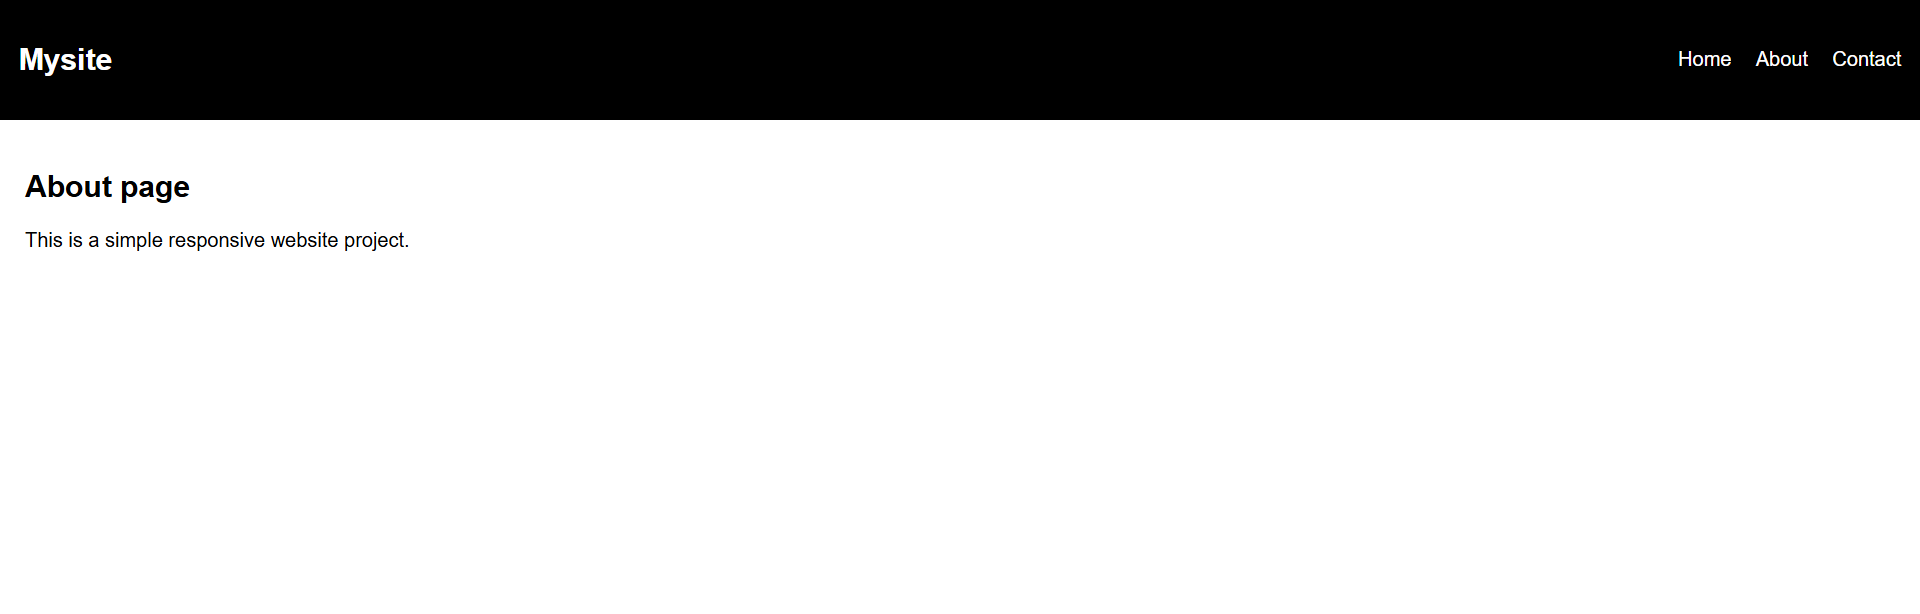
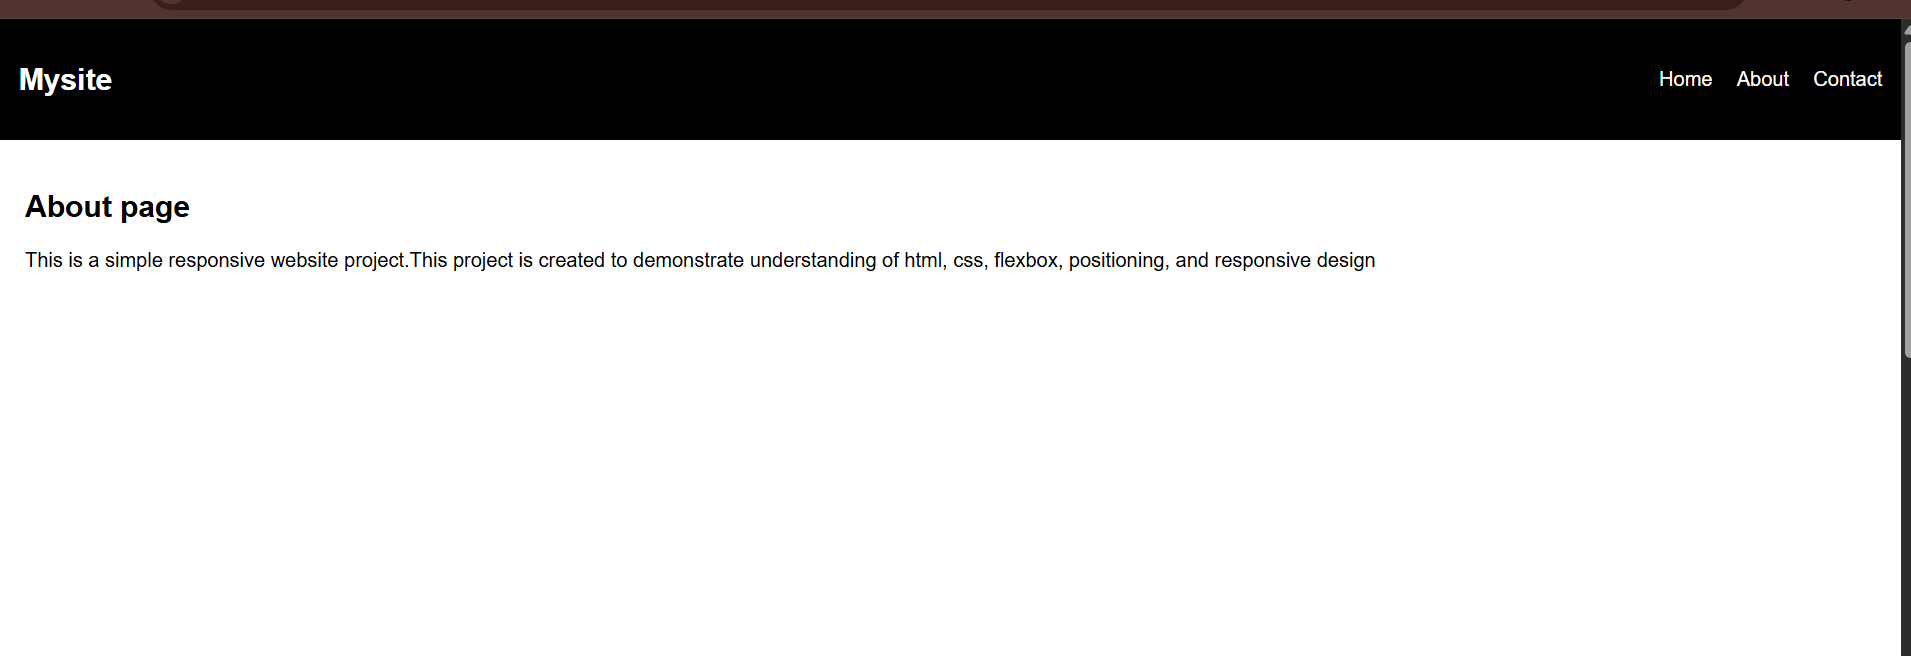
added file

diff --git a/mini project/home.html b/mini project/home.html
@@ -17,10 +17,31 @@
                 <a href="contact.html">Contact</a>
             </div>
         </div>
+
+        <div class="hero">
+            <h1>Welcome to my website</h1>
+            <p>Learning web development step by step.</p>
+        </div>
+
         <div class="container">
-            <div class="card">Welcome</div>
-            <div class="card">Explore</div>
-            <div class="card">Learn</div>
+            <div class="card">
+                <h3>HTML</h3>
+                <P>Structure of web page.</P>
+            </div>
+
+            <div class="card">
+                <h3>CSS</h3>
+                <p>Styling and layout design.</p>
+            </div>
+
+            <div class="card">
+                <h3>Responsive</h3>
+                <p>Works on all devices.</p>
+            </div>
+        </div>
+
+        <div class="footer">
+            <p>2026 Mysite | All Rights Reserved</p>
         </div>
     </body>
 </html>

diff --git a/mini project/style.css b/mini project/style.css
@@ -1,6 +1,7 @@
 body {
     margin:0;
     font-family: Arial, Helvetica, sans-serif;
+    height:2000px;
 }
 
 .navbar {
@@ -38,4 +39,34 @@ body {
 
 .form-container {
     padding:20px;
+}
+
+
+form{
+    display:flex;
+    flex-direction: column;
+    max-width: 300px;
+}
+
+input, textarea{
+    margin-bottom:10px;
+    padding:10px;
+}
+
+button{
+    padding:10px;
+    background: blue;
+    color: white;
+    border:none;
+}
+
+@media (max-width:768px) {
+    .navbar {
+        flex-direction: column;
+        align-items: center;
+    }
+
+    .container {
+        flex-direction: column;
+    }
 }

diff --git a/mini project/about.html b/mini project/about.html
@@ -20,7 +20,7 @@
 
         <div class="content">
             <h2>About page</h2>
-            <p>This is a simple responsive website project.</p>
+            <p>This  is a simple responsive website project.This project is created to demonstrate understanding of html, css, flexbox, positioning, and responsive design</p>
         </div>
     </body>
 </html>

diff --git a/mini project/contact.html b/mini project/contact.html
@@ -1,4 +1,4 @@
-!DOCTYPE html>
+<!DOCTYPE html>
 <html>
     <head>
         <title>Contact</title>
